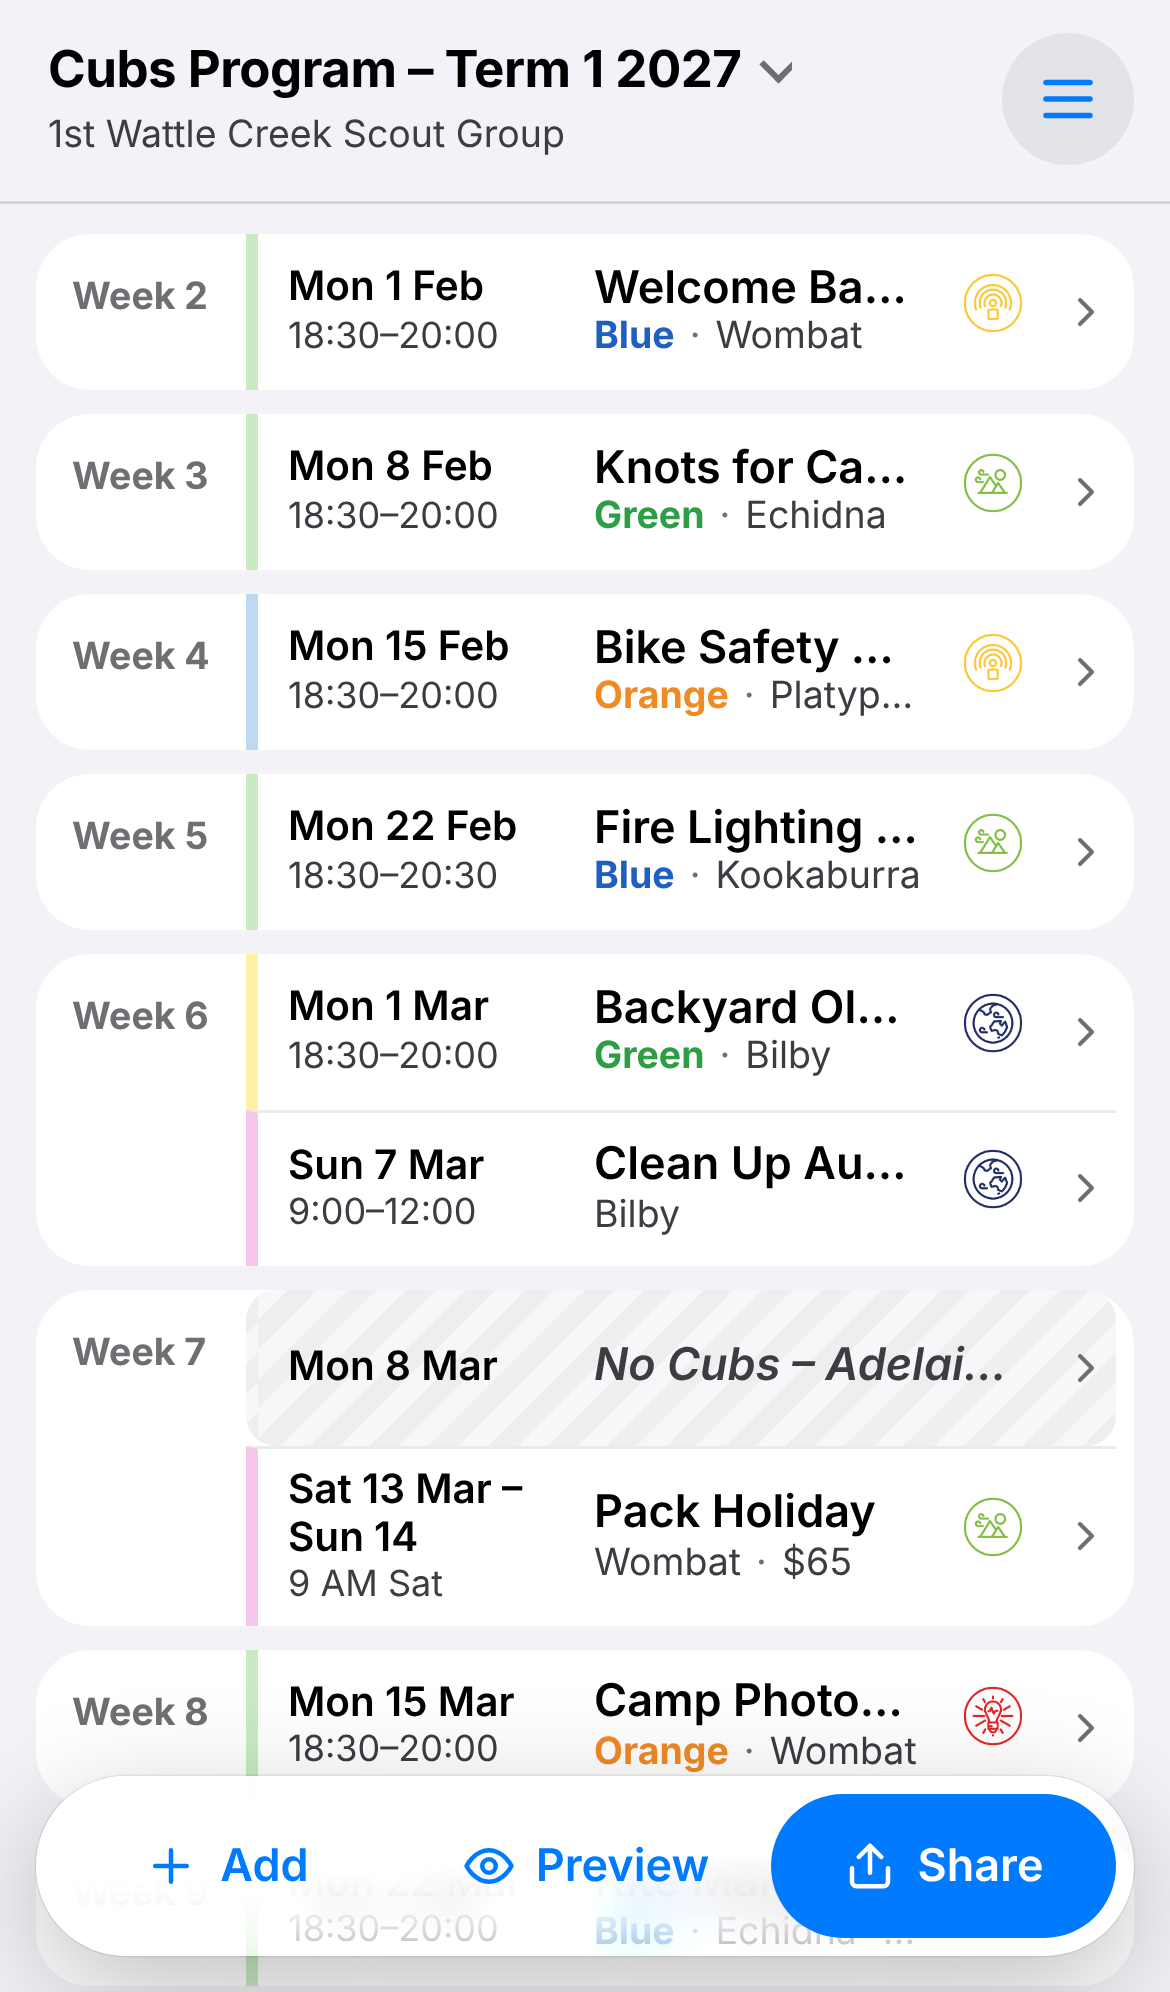
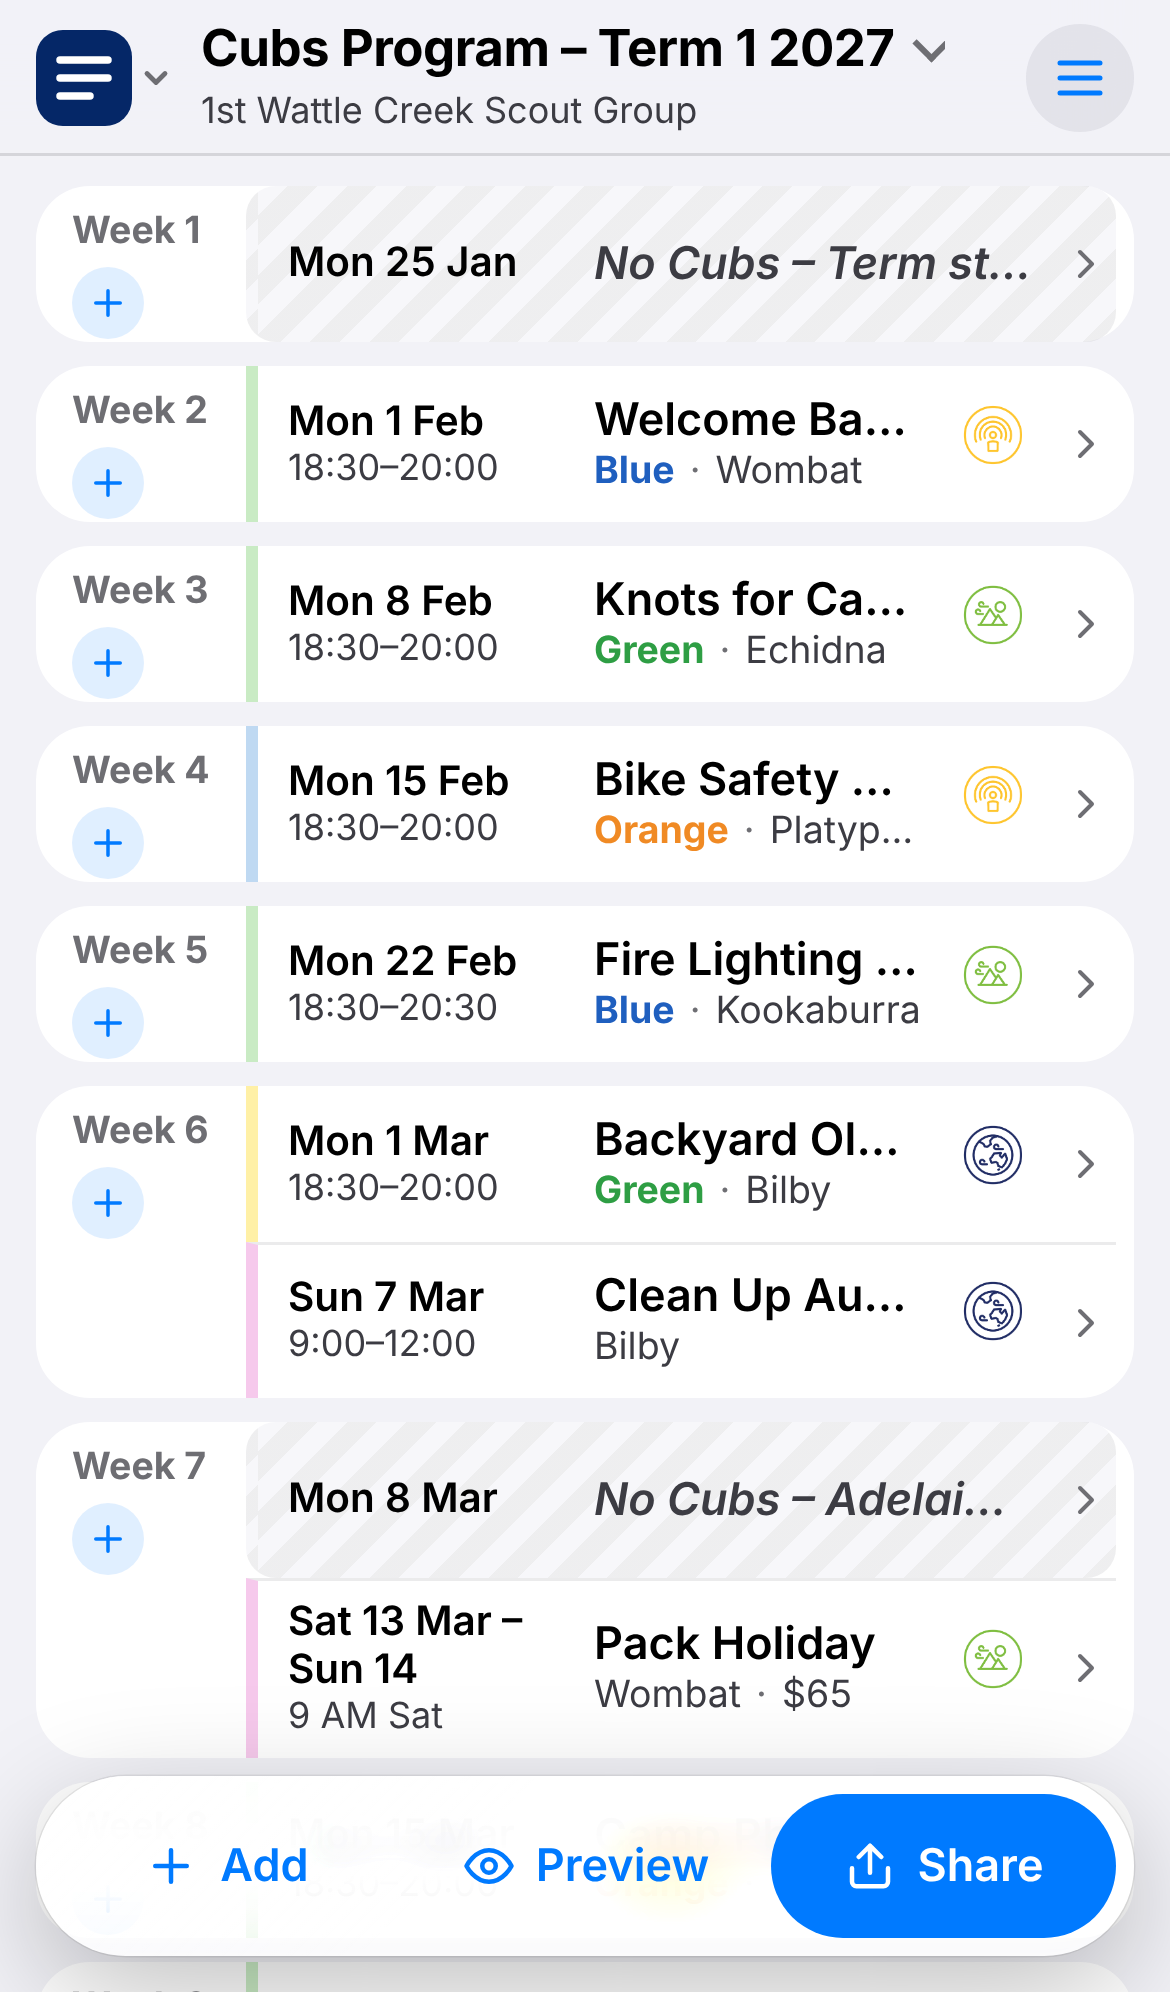
Show Week 1 when the term starts after its meeting night
If a term starts partway through a week, after the meeting night, that
whole week is now Week 1, with its meeting night as a week off ('No Cubs
- Term starts Thu 28 Jan'), as public holidays are. It isn't counted as
a meeting or a duty patrol turn. Add missing dates adds it to programs
made before. Changing which day weeks start on now regenerates an
untouched program too.

The README example (SA Term 1 2027, starting on a Wednesday, Mondays)
has the new Week 1 row, with its pictures redone.

Claude-Session: https://claude.ai/code/session_01EZKejL16snRsfncvny1AF8

diff --git a/js/app.js b/js/app.js
@@ -409,7 +409,14 @@ function generateRows(existing = []) {
   const usedDates = new Set(existing.filter((r) => !r.emptyWeek).map((r) => r.date));
   const patrols = state.patrols.filter((p) => p.name);
   let turn = 0;
-  return meetingDates().map((date) => {
+  // A term that starts partway through a week, after the meeting night: that week is still Week 1,
+  // shown with its meeting night as a week off, like a public holiday
+  const before = [];
+  const night = firstWeekNightBeforeTerm();
+  if (night && !usedDates.has(night)) {
+    before.push(newRow(night, { noMeeting: true, autoHoliday: true, activity: weekOffText(`Term starts ${termStartText()}`), time: '', uniform: '' }));
+  }
+  return before.concat(meetingDates().map((date) => {
     const holiday = publicHoliday(date);
     if (holiday) {
       const blank = existing.find((r) => r.date === date && isBlankRow(r));
@@ -421,17 +428,33 @@ function generateRows(existing = []) {
     turn++;
     if (usedDates.has(date)) return null;
     return newRow(date, { patrol });
-  }).filter(Boolean);
+  }).filter(Boolean));
+}
+
+/** "Thu 28 Jan": the term's first day, as plain text for a week-off row. */
+function termStartText() {
+  const d = parseDate(state.term.start);
+  return d ? `${DAY_SHORT[d.getDay()]} ${d.getDate()} ${MONTH_SHORT[d.getMonth()]}` : '';
+}
+
+/** The meeting night of the term's first week when it falls before the term starts, else ''. */
+function firstWeekNightBeforeTerm() {
+  const s = parseDate(state.term.start);
+  if (!s) return '';
+  const night = addDays(startOfWeek(s), (state.term.meetingDay - weekStartDay() + 7) % 7);
+  return night < s ? toISO(night) : '';
 }
 
 /** First day of the week: 1 = weeks run Monday–Sunday, 0 = Sunday–Saturday. */
 function weekStartDay() { return state.options.weekStart === 0 ? 0 : 1; }
 function startOfWeek(d) { return addDays(d, -((d.getDay() - weekStartDay() + 7) % 7)); }
 
+/** The term week number of a date, or null outside the term. The whole of the first week counts,
+ * even the days before a term that starts partway through it. */
 function weekOf(iso) {
   const d = parseDate(iso), s = parseDate(state.term.start), e = parseDate(state.term.end);
   if (!d || !s) return null;
-  if (d < s || (e && d > e)) return null;
+  if (d < startOfWeek(s) || (e && d > e)) return null;
   return Math.floor(dayDiff(startOfWeek(s), d) / 7) + 1;
 }
 
@@ -2280,7 +2303,7 @@ function onBoundInput(e) {
     state.branding.titleColor = luminance(SECTIONS[v].color) < 0.45 ? 'auto' : 'dark';
   }
   if (['term.region', 'term.year', 'term.term'].includes(path)) applyTermPreset();
-  const datesChanged = ['term.region', 'term.year', 'term.term', 'term.start', 'term.end', 'term.meetingDay', 'options.publicHolidays'].includes(path);
+  const datesChanged = ['term.region', 'term.year', 'term.term', 'term.start', 'term.end', 'term.meetingDay', 'options.publicHolidays', 'options.weekStart'].includes(path);
 
   // Rows still showing the old default time follow the new default.
   const nextDefaultTime = defaultTimeText();

diff --git a/tests/weeks.spec.js b/tests/weeks.spec.js
@@ -199,3 +199,50 @@ test.describe('moving outside the term', () => {
     await expect(page.locator('#sheet tr.empty-week .c-date')).toHaveText('21–27 Dec');
   });
 });
+
+test.describe('a term starting partway through a week', () => {
+  let errors;
+  test.beforeEach(async ({ page }) => { errors = await openApp(page); });
+  test.afterEach(() => { expect(errors, 'browser errors').toEqual([]); });
+
+  // VIC Term 1 2027 starts on Thursday 28 January
+  const setTerm = (page, meetingDay, weekStart = 1) => page.evaluate(([day, ws]) => {
+    Object.assign(state.term, { region: 'VIC', year: 2027, term: 1, start: '2027-01-28', end: '2027-03-25', meetingDay: day });
+    state.options.weekStart = ws;
+    state.rows = generateRows();
+    renderAll();
+    return state.rows.slice(0, 2).map((r) => ({ date: r.date, noMeeting: r.noMeeting, activity: r.activity, patrol: r.patrol, wk: weekOf(r.date) }));
+  }, [meetingDay, weekStart]);
+
+  test('a meeting night before the start is Week 1, marked as a week off', async ({ page }) => {
+    const rows2 = await setTerm(page, 1);
+    expect(rows2).toEqual([
+      { date: '2027-01-25', noMeeting: true, activity: 'No Cubs – Term starts Thu 28 Jan', patrol: '', wk: 1 },
+      { date: '2027-02-01', noMeeting: false, activity: '', patrol: 'Blue', wk: 2 },
+    ]);
+    const first = page.locator('#sheet tbody tr').first();
+    await expect(first).toHaveClass(/no-meeting/);
+    await expect(first.locator('.c-week .wk')).toHaveText('Week 1');
+    await expect(first).toContainText('No Cubs – Term starts Thu 28 Jan');
+    // Not counted as a meeting
+    await expect(page.locator('#termHint')).toContainText('8 Monday meetings');
+  });
+
+  test('no extra row when the meeting night is on or after the start, and the weeks setting counts', async ({ page }) => {
+    expect((await setTerm(page, 4))[0]).toMatchObject({ date: '2027-01-28', noMeeting: false, wk: 1 });
+    expect((await setTerm(page, 5))[0]).toMatchObject({ date: '2027-01-29', noMeeting: false, wk: 1 });
+    // Weeks running Sunday to Saturday: a Sunday meeting before the start is in Week 1 too
+    expect((await setTerm(page, 0, 0))[0]).toMatchObject({ date: '2027-01-24', noMeeting: true, wk: 1 });
+    // Weeks running Monday to Sunday: Sunday is the end of the week, so the first Sunday (31 Jan) is in the term
+    expect((await setTerm(page, 0, 1))[0]).toMatchObject({ date: '2027-01-31', noMeeting: false, wk: 1 });
+  });
+
+  test('Add missing dates fills it in for a program made before', async ({ page }) => {
+    await setTerm(page, 1);
+    await page.evaluate(() => { state.rows = state.rows.filter((r) => r.date !== '2027-01-25'); state.rows[0].activity = 'Kept'; renderAll(); });
+    await page.click('#btnGenerate');
+    await page.click('.modal [data-i="2"]');
+    const r = await page.evaluate(() => state.rows.slice(0, 2).map((x) => [x.date, x.activity]));
+    expect(r).toEqual([['2027-01-25', 'No Cubs – Term starts Thu 28 Jan'], ['2027-02-01', 'Kept']]);
+  });
+});

diff --git a/tests/welcome.spec.js b/tests/welcome.spec.js
@@ -68,7 +68,8 @@ test('first visit: setup wizard, then the tour', async ({ page }) => {
   expect(b.leaders).toEqual([{ name: 'Akela', phone: '0400 000 001' }, { name: 'Baloo', phone: '' }]);
   const t = await page.evaluate(() => [state.term, state.rows.map((r) => r.date)]);
   expect(t[0]).toMatchObject({ region: 'VIC', year: 2027, term: 1, meetingDay: 3, start: '2027-01-28', end: '2027-03-25' });
-  expect(t[1]).toEqual(['2027-02-03', '2027-02-10', '2027-02-17', '2027-02-24', '2027-03-03', '2027-03-10', '2027-03-17', '2027-03-24']);
+  // The term starts on Thursday 28 January: Week 1's Wednesday is a week off
+  expect(t[1]).toEqual(['2027-01-27', '2027-02-03', '2027-02-10', '2027-02-17', '2027-02-24', '2027-03-03', '2027-03-10', '2027-03-17', '2027-03-24']);
   await expect(page.locator('[data-bind="term.region"]')).toHaveValue('VIC');
   await expect(page.locator('#sheet')).toContainText('Akela');
   await stepThroughTour(page, 6);

diff --git a/tests/sheet.spec.js b/tests/sheet.spec.js
@@ -121,7 +121,8 @@ test.describe('sheet', () => {
     await page.selectOption('[data-bind="term.term"]', '1');
     await page.selectOption('[data-bind="term.meetingDay"]', '1');
     const off = await page.evaluate(() => state.rows.filter((r) => r.noMeeting).map((r) => `${r.date} ${r.activity}`));
-    expect(off).toEqual(['2026-03-09 No Cubs – Adelaide Cup Day', '2026-04-06 No Cubs – Easter Monday']);
+    // The term starts on Tuesday 27 January, after Week 1's Monday
+    expect(off).toEqual(['2026-01-26 No Cubs – Term starts Tue 27 Jan', '2026-03-09 No Cubs – Adelaide Cup Day', '2026-04-06 No Cubs – Easter Monday']);
     const patrols = await page.evaluate(() => state.rows.filter((r) => !r.noMeeting).map((r) => r.patrol).slice(4, 6));
     expect(patrols).toEqual(['Green', 'Orange']);   // holidays don't use up a duty patrol turn
   });

diff --git a/tests/files.spec.js b/tests/files.spec.js
@@ -84,7 +84,7 @@ test.describe('files', () => {
     await page.setInputFiles('#fileJson', require('path').join(__dirname, '..', 'examples', 'example-program.json'));
     // The empty program already fits one page, so wait for the imported one before checking
     await expect.poll(() => page.evaluate(() => [state.branding.groupName, state.rows.filter((r) => r.noMeeting).length, state.extras.dates.length]))
-      .toEqual(['1st Wattle Creek Scout Group', 2, 3]);
+      .toEqual(['1st Wattle Creek Scout Group', 3, 3]);
     await expect(page.locator('#fitStatus')).toContainText('Fits 1 page');
   });
 

diff --git a/README.md b/README.md
@@ -10,7 +10,7 @@ A small web app for building a term program to share with Scout families. It run
 
 This example was made in the app. The group, leaders and activities are made up, and the phone numbers are from the 0491 570 range that ACMA reserves for fiction. It shows:
 
-- **Generated meeting nights:** Mondays for SA Term 1 2027. The first meeting is in Week 2 because the term starts on a Wednesday. Adelaide Cup Day and Easter Monday became weeks off automatically.
+- **Generated meeting nights:** Mondays for SA Term 1 2027. The term starts on a Wednesday, so Week 1's Monday is shown as a week off ("No Cubs – Term starts Wed 27 Jan") and the first meeting is in Week 2. Adelaide Cup Day and Easter Monday became weeks off automatically.
 - **Duty patrols** rotating Blue, Green, Orange, skipping the weeks off.
 - **A weekend camp over two days** (Pack Holiday, Saturday to Sunday) and a **Sunday community event**, each grouped into its week.
 - **Highlight colours and challenge areas:** all four of each, with the legend.
@@ -27,7 +27,7 @@ To try it, download [`examples/example-program.json`](examples/example-program.j
 ## Features
 
 - **Set up on the first visit.** A short wizard asks for the group's name, the section, the term (state, year, term and meeting night; it suggests the current or next term and fills in the meeting nights) and at least one leader (contact details optional), then a tour points out the settings, the program, the buttons for dates and activities, saved programs, files and printing. On a phone the tour covers the week list, Add, Preview, Share, the title and the menu. Take it again with *Take the tour* under the sidebar, or in the phone menu. Anyone who already has programs saved isn't shown the wizard.
-- **Generates meeting dates automatically.** Pick the region, year, term and meeting night, and you get one row per meeting with its term week number. Weeks can run Monday–Sunday or Sunday–Saturday. Meeting nights on a public holiday automatically become weeks off, such as "No Cubs – Labour Day", and don't use up a duty patrol turn.
+- **Generates meeting dates automatically.** Pick the region, year, term and meeting night, and you get one row per meeting with its term week number. Weeks can run Monday–Sunday or Sunday–Saturday. If the term starts partway through a week, after the meeting night, that whole week is still Week 1 and its meeting night is shown as a week off ("No Cubs – Term starts Thu 28 Jan"). Meeting nights on a public holiday automatically become weeks off, such as "No Cubs – Labour Day", and don't use up a duty patrol turn.
   - **Term dates** are built in for every state and territory: SA 2025–2028, VIC 2026–2029, QLD and WA 2026–2028, and NSW (Eastern and Western divisions), TAS, ACT and NT 2026–2027. For other years or places, choose *Other / custom* and type the dates. ACT and NT dates come from sources quoting the official tables, because their sites couldn't be reached, so double-check those.
   - **Public holidays** are worked out from each state's rules, and checked against data.gov.au (2021–2025) and, for SA, SafeWork SA's 2025–2028 list. They include part-day holidays that clash with evening meetings (SA and NT Christmas Eve and New Year's Eve from 7pm, QLD Christmas Eve from 6pm). Regional or restricted days are left out (show days, NSW Bank Holiday, Hobart Regatta, TAS Recreation Day and Easter Tuesday), as are WA holidays from 2028 (WA's law changes) and Victoria's AFL Grand Final Friday until it's announced each year. Add any of those as weeks off.
 - **Edit in place.** Click any cell on the page preview to type. Clicking a date shows the seven days of that row's week: pick one and the date fills in. The picker also takes a full date, a multi-day end date or custom text like "Sat or Sun 7 or 8 Nov". Clicking a time opens a time picker: *Starts* and *Finishes* boxes (a new start keeps the same length), quick choices (*Meeting night*, *TBA*, *No time*), and *Shown as*, the text in the cell, which you can type over with anything, like "Pick up 9 AM" or "9 AM Sat" and "4 PM Sun" on two lines (Shift+Enter). Picked times follow your *Time format* and *Time layout*. The phone editor has the same, with the phone's own time pickers. Clicking a challenge area, duty patrol, leader or uniform cell lets you choose from a list (uniform is Yes or No, with *Other* for things like "Camp"). Leaders come from your *Leaders* list, and *Other leader* adds someone from outside the section (e.g. "Roo (Joeys)"), who is then offered for other rows too. Renaming a leader updates the program.
